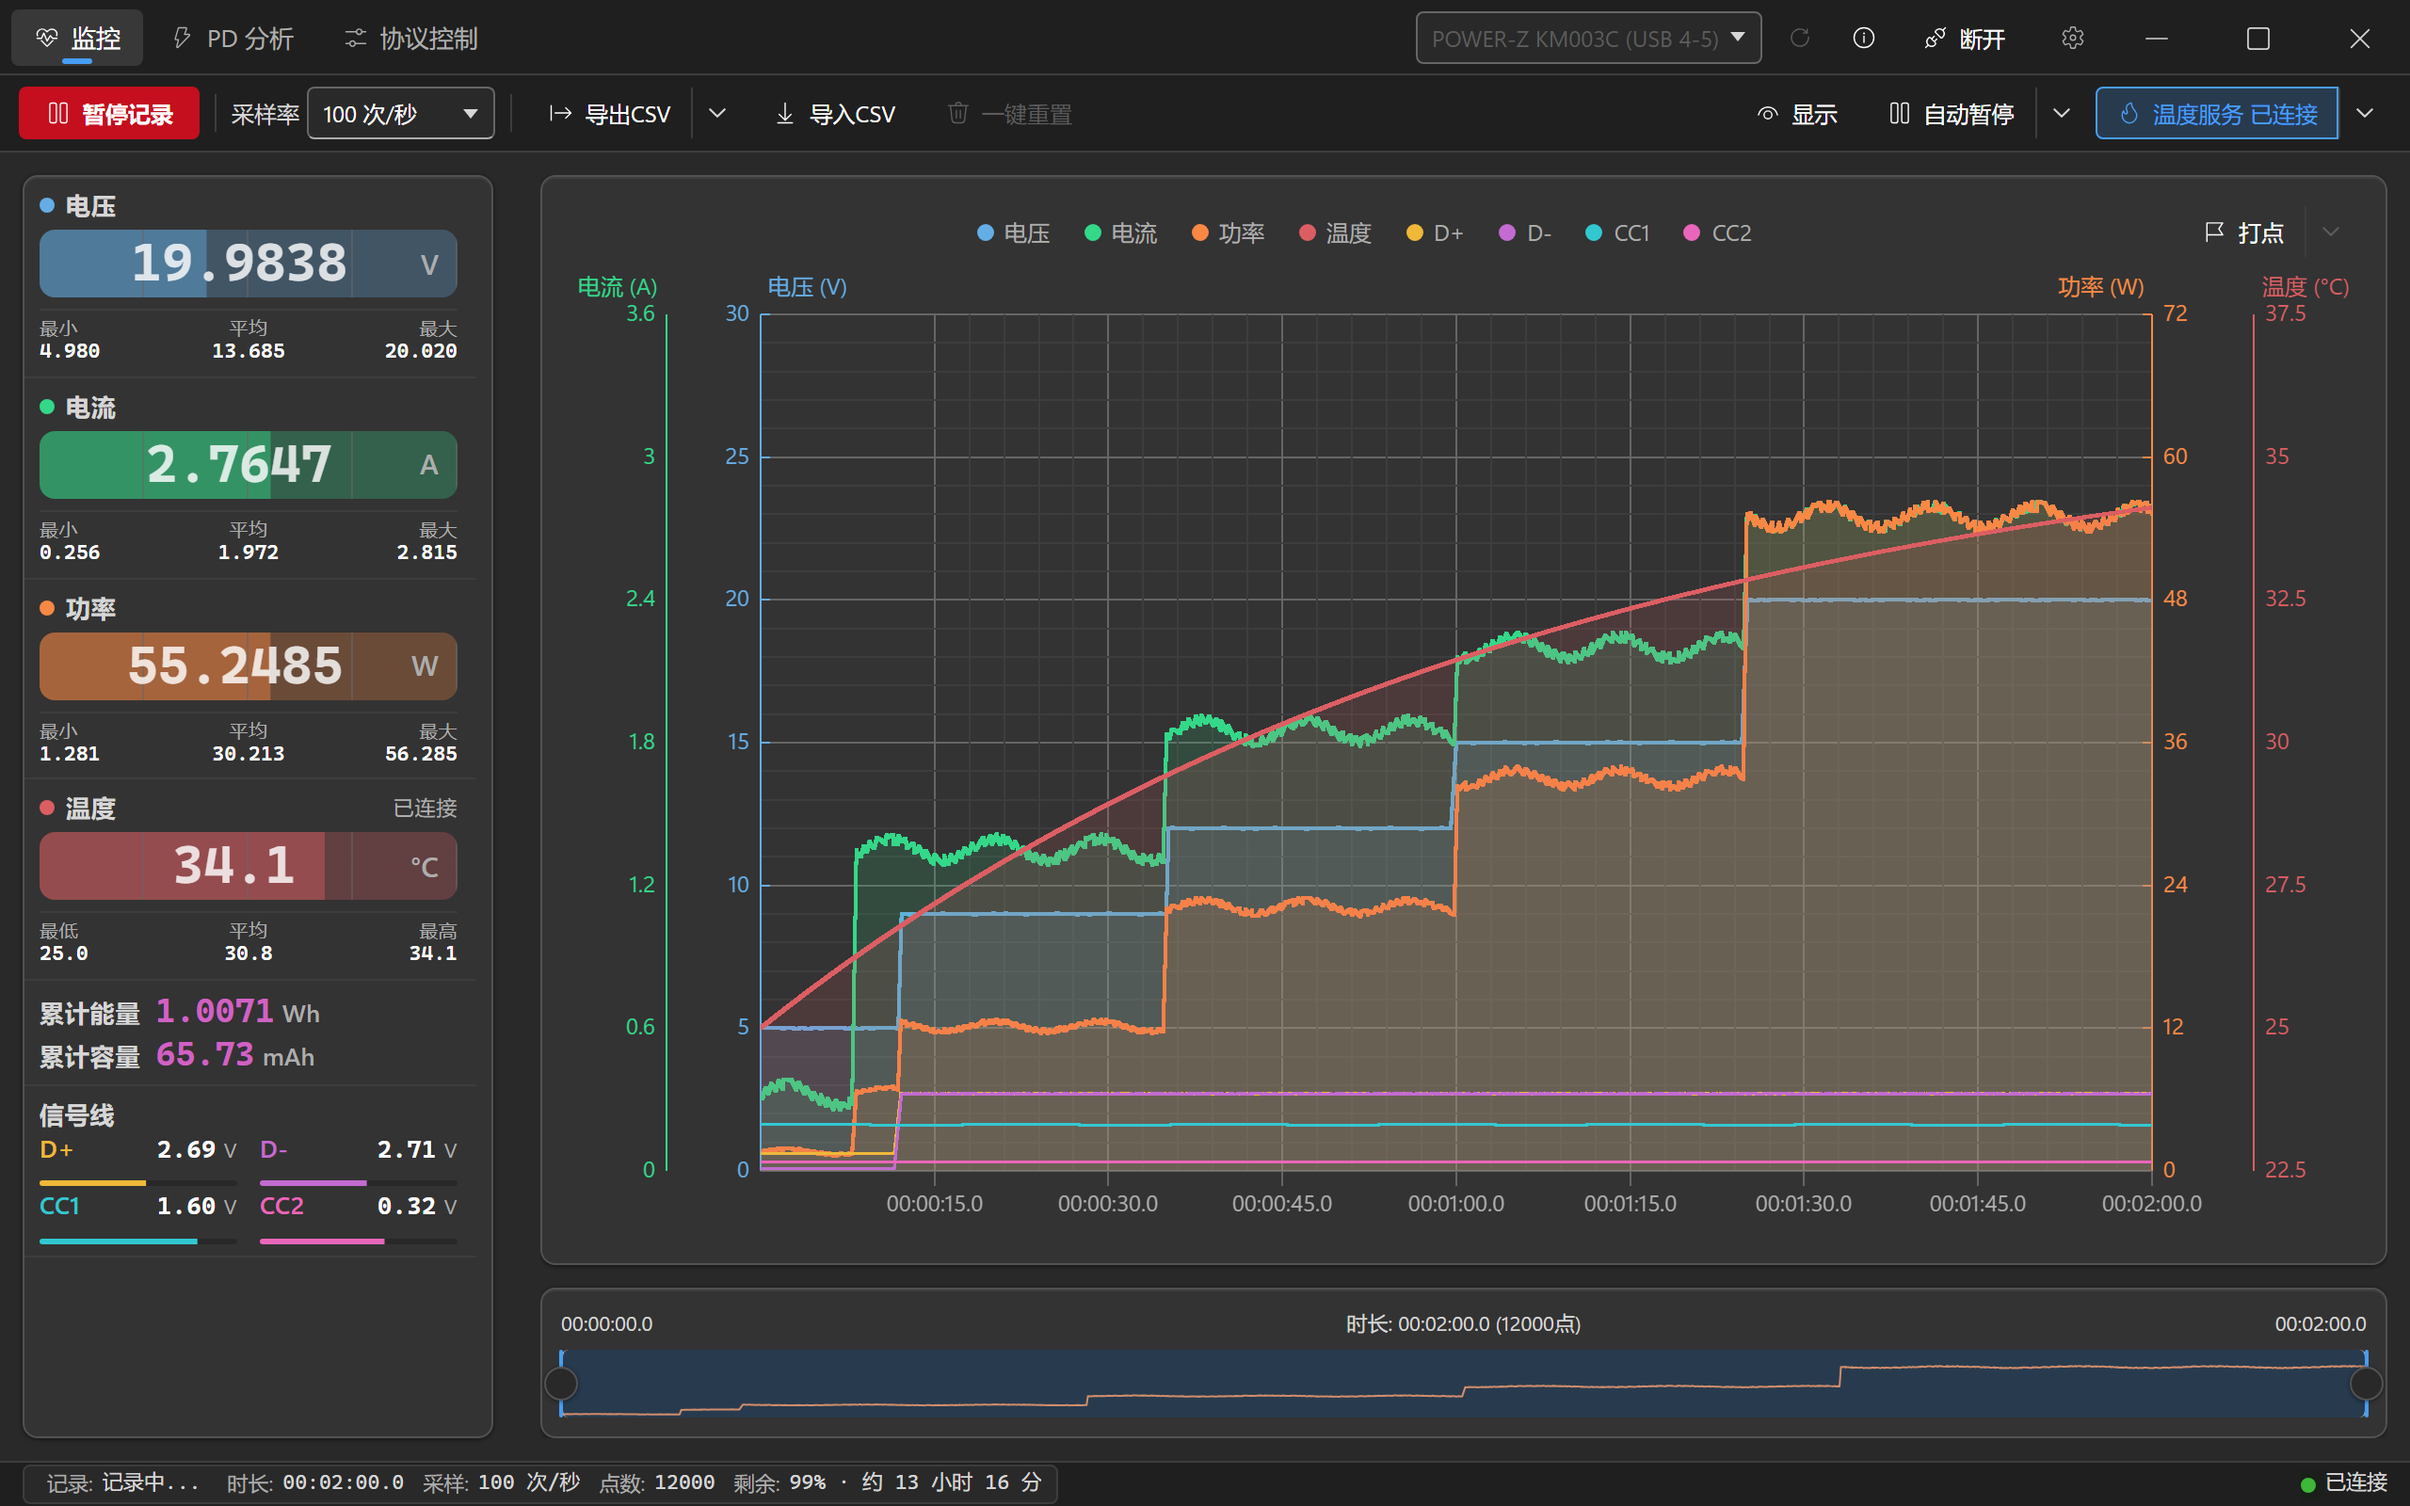
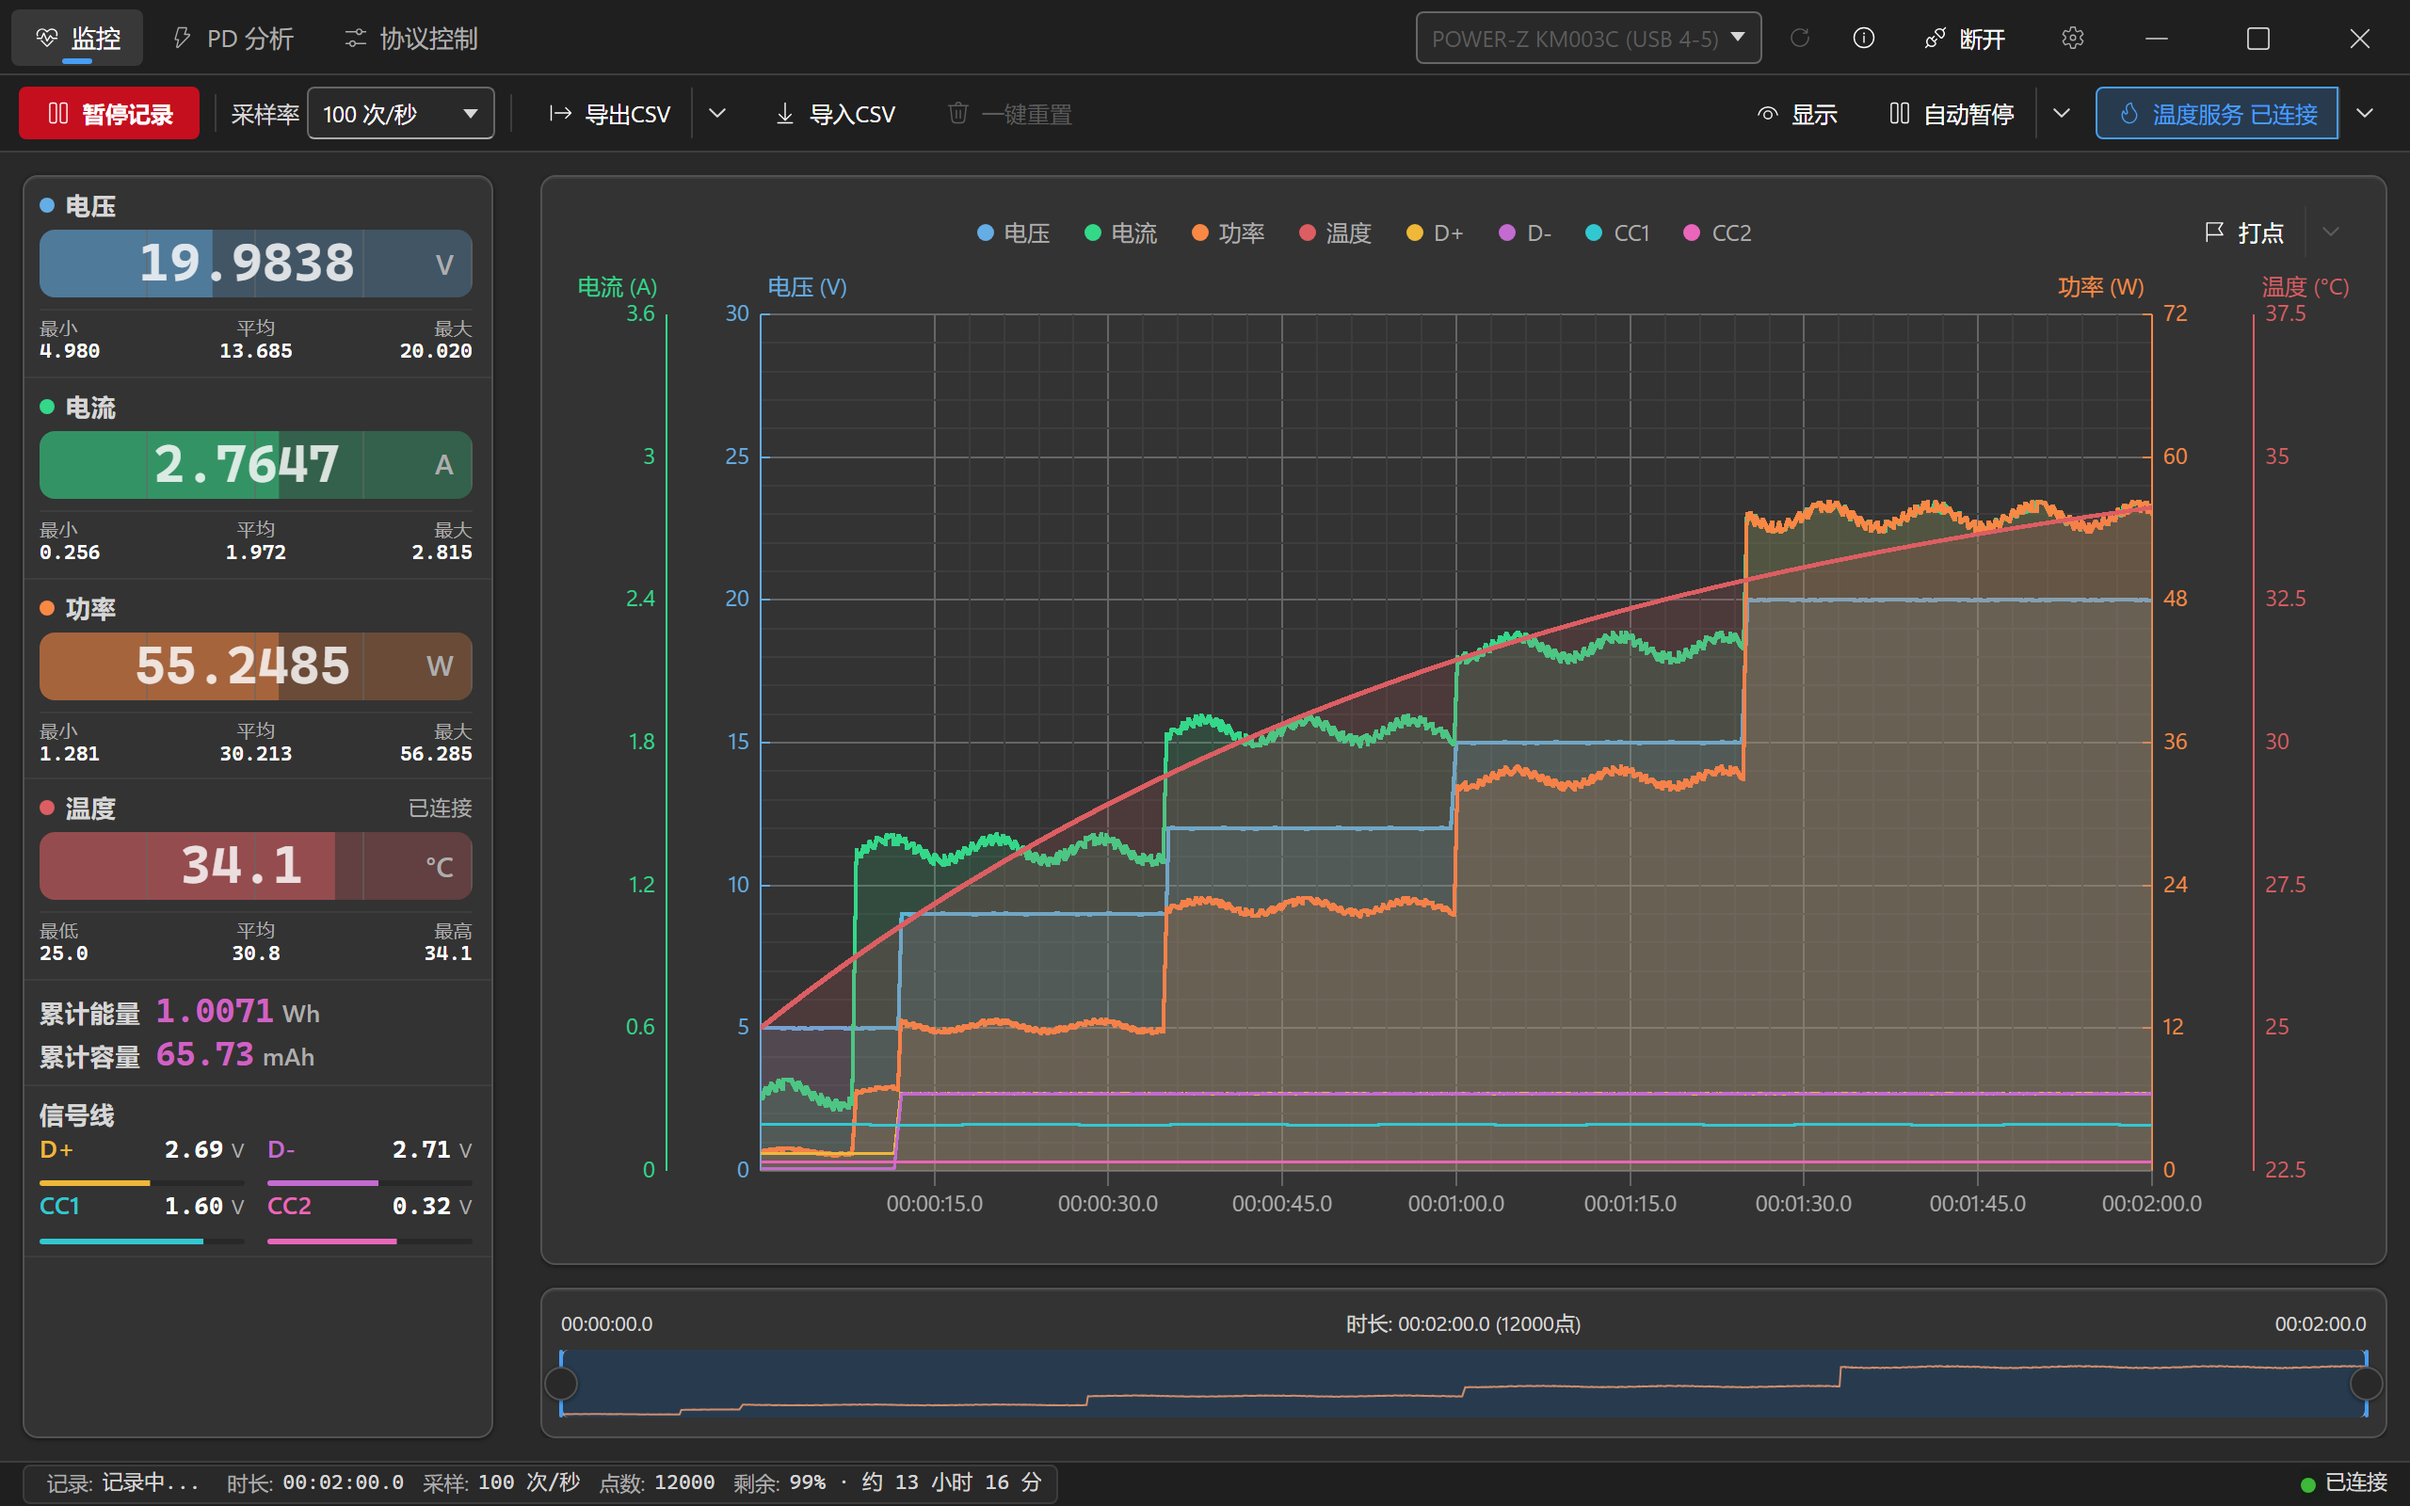
fix: hide reading sidebar scrollbar without reserving space

diff --git a/src/styles.css b/src/styles.css
@@ -454,11 +454,17 @@ input[type="number"]::-webkit-outer-spin-button {
   flex-shrink: 0;
   overflow-y: auto;
   overflow-x: hidden;
+  /* 矮窗口仍可滚动查看读数，但不显示滚动条或预留其宽度。 */
+  scrollbar-width: none;
   background: var(--surface-card);
   border: 1px solid var(--stroke-card);
   border-radius: var(--radius-surface);
   box-shadow: var(--shadow-2);
   padding: 0;
+}
+
+.realtime-panel::-webkit-scrollbar {
+  display: none;
 }
 
 .realtime-card {

diff --git a/src/styles/base.css b/src/styles/base.css
@@ -77,7 +77,6 @@ textarea {
 }
 
 .page,
-.realtime-panel,
 .pd-detail-pane,
 .trigger-controls,
 .flyout-panel,

diff --git a/changelog/0.2.5/en.md b/changelog/0.2.5/en.md
@@ -13,7 +13,7 @@
 - Refresh documentation screenshots for 0.2.5 in all four languages and both themes. Generating and reviewing the full image set and updating README references are now required steps before each release.
 - Auto pause and temperature service use split buttons matching CSV export: the main button toggles the service and the arrow opens configuration. Device information moves to an information-only icon between refresh and connect. It prefers the connected device, otherwise the selected device, and works before connection.
 - Settings remains a single scrolling page with a sticky directory on the left in wide windows and at the top in narrow windows, with active-section tracking. Directory width accommodates complete labels without wrapping in English. Recovery files and reset controls share a section. About moves to the end and uses a responsive horizontal application card. Returning from another workspace restores the session's scroll position.
-- Scrollbars keep a fixed width and reserve space to prevent hover or content changes from shifting the layout. Settings navigation scrolls smoothly, allows user interruption and respects reduced motion preferences.
+- Scrollbars keep a fixed width and reserve space to prevent hover or content changes from shifting the layout. The monitor's left reading panel hides its scrollbar and reserved space while remaining scrollable in shorter windows. Settings navigation scrolls smoothly, allows user interruption and respects reduced motion preferences.
 - Temperature acquisition, curve visibility and CSV temperature export are controlled separately. Disconnection preserves the selected source, display and export preferences, and recorded data; missing intervals remain empty. Importing or clearing data does not change connection preferences, importing temperature does not connect a source, and restarting still requires a manual connection.
 - Chart downsampling preserves endpoints and extrema in sample order, with shared ordered geometry for the main chart and power navigator. Paged extrema indices reduce memory and append costs. Reused coordinates, intervals and per-channel fill caches reduce compositing and redundant work during pause and zoom.
 

diff --git a/changelog/0.2.5/zh-CN.md b/changelog/0.2.5/zh-CN.md
@@ -13,7 +13,7 @@
 - 更新四语言、浅深主题的文档截图至 0.2.5，并将整套截图生成、逐张检查及 README 同步纳入每次发布前的必做步骤。
 - 自动暂停和温度服务采用与导出 CSV 一致的分体按钮，主按钮负责启停，箭头打开配置。设备信息移至刷新与连接之间的纯信息图标，优先显示已连接设备，否则显示当前选中设备；未连接时也可查看。
 - 设置保留单页滚动，增加宽屏左侧、窄屏顶部的固定目录与滚动高亮；目录按完整标签留宽，避免英文换行。恢复文件、恢复列表和重置设置归入「恢复与重置」，关于放在页尾并改为自适应横向卡片。切换工作区后返回设置可恢复本次会话的滚动位置。
-- 滚动条保持固定宽度并预留空间，避免悬停或内容变化造成布局跳动。设置目录支持平滑定位，用户滚动可中断，并遵循「减少动态效果」偏好。
+- 滚动条保持固定宽度并预留空间，避免悬停或内容变化造成布局跳动。监控左侧读数栏隐藏滚动条及其占位，矮窗口仍可滚动查看全部读数。设置目录支持平滑定位，用户滚动可中断，并遵循「减少动态效果」偏好。
 - 温度采集、曲线显示和 CSV 温度列分别控制。断线保留温度来源、显示与导出偏好及已有数据，缺测区间留空；导入或清空数据不改变连接偏好，导入温度列不触发连接，重启后仍需手动连接。
 - 图表降采样按真实采样顺序保留首末点与极值时刻，主图和功率导航图共用有序几何；极值索引按页保存，减少内存与追加开销。每通道复用坐标、区间与填充缓存，减少重复合成和暂停、缩放时的重复绘制。
 

diff --git a/docs/en/USAGE.md b/docs/en/USAGE.md
@@ -109,6 +109,8 @@ During long recordings such as charging tests, mark the moments that matter: the
 
 ### Reading cards
 
+The reading panel hides its scrollbar without reserving space for it. In shorter windows, use the mouse wheel or trackpad inside the panel to scroll through all readings.
+
 The left panel is resizable (200–360 px; default 250 px); dragging the divider on its right saves the width. The four main cards (voltage/current/power/temperature) share this structure:
 
 - A title with the channel's color dot and name.

diff --git a/docs/USAGE.md b/docs/USAGE.md
@@ -112,6 +112,8 @@ AdcQueue，样本带 1 kHz 设备时基；温度由并行 ADC 快照补齐。认
 
 ### 读数卡片
 
+读数栏隐藏滚动条且不预留占位；窗口较矮时，可在栏内用滚轮或触控板上下滚动，查看全部读数。
+
 左栏默认可拖宽度（200–360 px，默认 250 px），右侧分栏条拖动后宽度会写入配置。四张主卡（电压 / 电流 / 功率 / 温度）结构统一：
 
 - 标题：通道色圆点 + 名称；

diff --git a/docs/zh-TW/USAGE.md b/docs/zh-TW/USAGE.md
@@ -114,6 +114,8 @@ AdcQueue，樣本帶 1 kHz 裝置時基；溫度由並行 ADC 快照補齊。認
 
 ### 讀數卡片
 
+讀數欄隱藏捲軸且不預留空間；視窗較矮時，可在欄內用滾輪或觸控板上下捲動，查看全部讀數。
+
 左欄預設可拖寬度（200–360 px，預設 250 px），右側分欄條拖動後寬度會寫入設定。四張主卡（電壓 / 電流 / 功率 / 溫度）結構統一：
 
 - 標題：通道色圓點 + 名稱；
